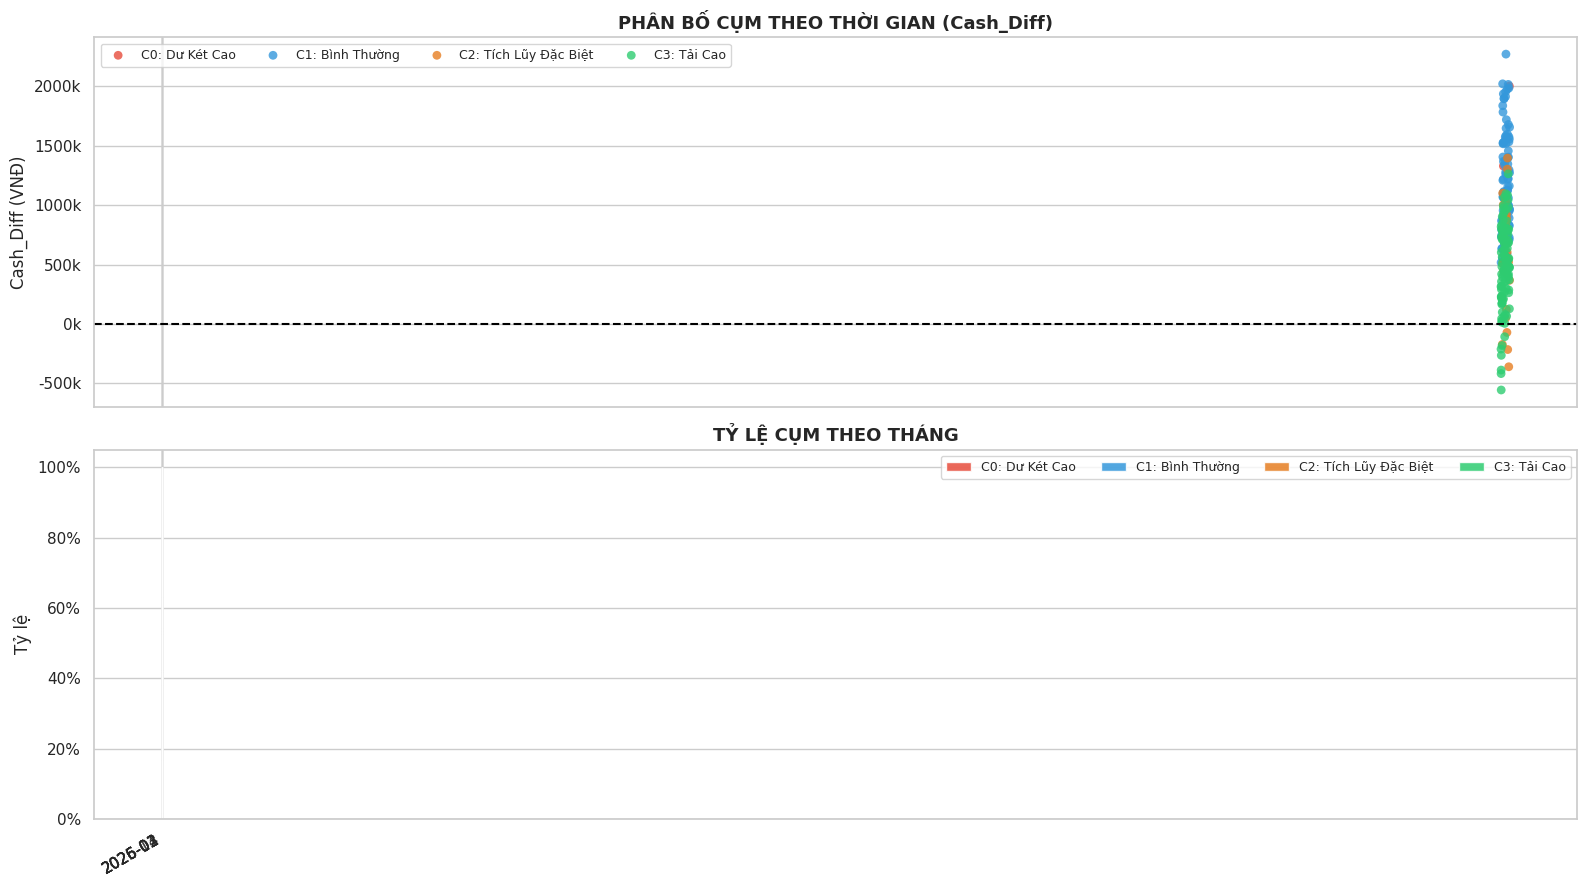
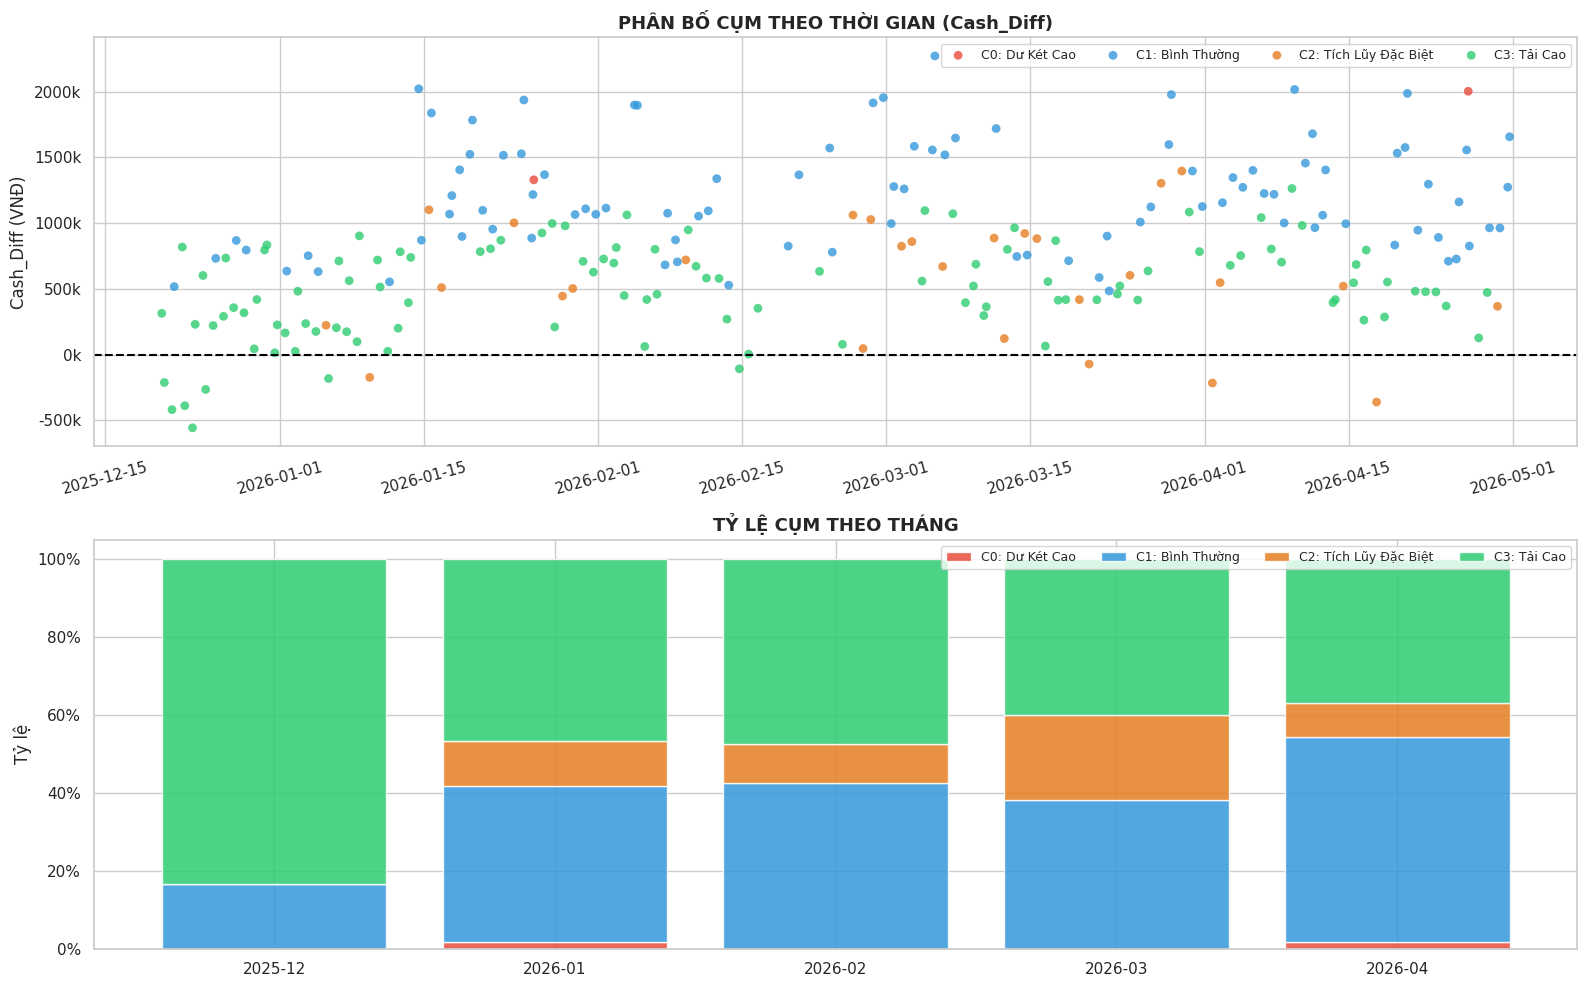
Fix stage 2 UI

diff --git a/index.html b/index.html
@@ -428,25 +428,25 @@
           </div>
         </div>
         <div class="report-section">
-          <h3 class="section-title">4. Phân tích Thói quen theo Thời gian & Ca làm việc</h3>
-          <div class="insight-block reverse">
-            <div class="insight-text">
-              <p><strong>Mục đích:</strong> Truy tìm xem các ca rủi ro cao thường rơi vào thời điểm nào trong ngày.</p>
-              <ul class="insight-list">
-                <li><span class="highlight-text">Phát hiện bất ngờ:</span> Cụm C0 (Dư két cao) 100% xảy ra vào <strong>Ca Chiều</strong>. Lý do là Ca Sáng làm xong thường làm biếng mang tiền đi cất, để dồn lại trong két giao luôn cho Ca Chiều.</li>
-                <li>Ngược lại, Cụm C3 (Tải siêu cao - dễ hụt tiền) lại chiếm áp đảo ở <strong>Ca Sáng (>60%)</strong>. Chứng tỏ buổi sáng cửa hàng cực kỳ bận rộn, áp lực thanh toán lớn.</li>
-                <li>Biểu đồ tiến trình thời gian (Timeline) cho thấy sự phân bố của 4 cụm diễn ra liên tục theo các tháng, không có hiện tượng co cụm bất thường vào một mùa nào.</li>
-              </ul>
+            <h3 class="section-title">4. Phân tích Thói quen theo Thời gian & Ca làm việc</h3>
+            <div class="insight-block reverse">
+                <div class="insight-text">
+                <p><strong>Mục đích:</strong> Truy tìm xem các ca rủi ro cao thường rơi vào thời điểm nào trong ngày, và có mang tính "mùa vụ" hay không.</p>
+                <ul class="insight-list">
+                    <li><span class="highlight-text">Rủi ro Ca làm việc:</span> Cụm C0 (Dư két cao) 100% xảy ra vào <strong>Ca Chiều</strong> (do Ca Sáng lười chốt tiền). Ngược lại, Cụm C3 (Tải siêu cao - dễ hụt tiền) lại chiếm áp đảo ở <strong>Ca Sáng (>60%)</strong> do áp lực thanh toán lớn.</li>
+                    <li><span class="highlight-text">Phân bố Mùa vụ (Timeline):</span> Nhìn vào biểu đồ cột xếp chồng (bên dưới), tỷ lệ các cụm được phân bổ khá đồng đều và liên tục qua các tháng (không có tháng nào đột nhiên xuất hiện một loại lỗi lạ). Điều này chứng tỏ đây là <strong>sai lệch do thói quen vận hành cố hữu</strong>, chứ không phải do sự kiện đột xuất.</li>
+                    <li>Đặc biệt, Cụm C2 (Tích lũy dị biệt - Chấm xanh lục) thi thoảng mới xuất hiện ngẫu nhiên trên biểu đồ Scatter, đòi hỏi hệ thống giám sát phải luôn túc trực 24/7 để \"bắt tại trận\".</li>
+                </ul>
+                </div>
+                <div class="insight-img" style="display: flex; gap: 12px; flex-direction: column;">
+                <div class="chart-card">
+                    <img src="static/images/phase2/moring-afternoon-shift.png" alt="Tỷ lệ Ca Sáng và Ca Chiều" onclick="openLightbox(this.src, 'Histogram: Phân bố rủi ro theo Ca Sáng và Ca Chiều')">
+                </div>
+                <div class="chart-card">
+                    <img src="static/images/phase2/cluster-distribution-overtime.png" alt="Phân phối cụm theo thời gian" onclick="openLightbox(this.src, 'Biểu đồ kép: Phân tán Cash_Diff và Tỷ lệ Cụm rủi ro theo từng tháng')">
+                </div>
+                </div>
             </div>
-            <div class="insight-img" style="display: flex; gap: 12px; flex-direction: column;">
-              <div class="chart-card">
-                <img src="static/images/phase2/moring-afternoon-shift.png" alt="Tỷ lệ Ca Sáng và Ca Chiều" onclick="openLightbox(this.src, 'Phân bố rủi ro theo Ca Sáng và Ca Chiều')">
-              </div>
-              <div class="chart-card">
-                <img src="static/images/phase2/cluster-distribution-overtime.png" alt="Phân phối cụm theo thời gian" onclick="openLightbox(this.src, 'Tiến trình xuất hiện của 4 cụm theo trục thời gian')">
-              </div>
-            </div>
-          </div>
         </div>
         <div class="summary-box">
           <h3 class="summary-title">💡 KẾT LUẬN VÒNG 2 & ĐẦU RA SẢN PHẨM</h3>